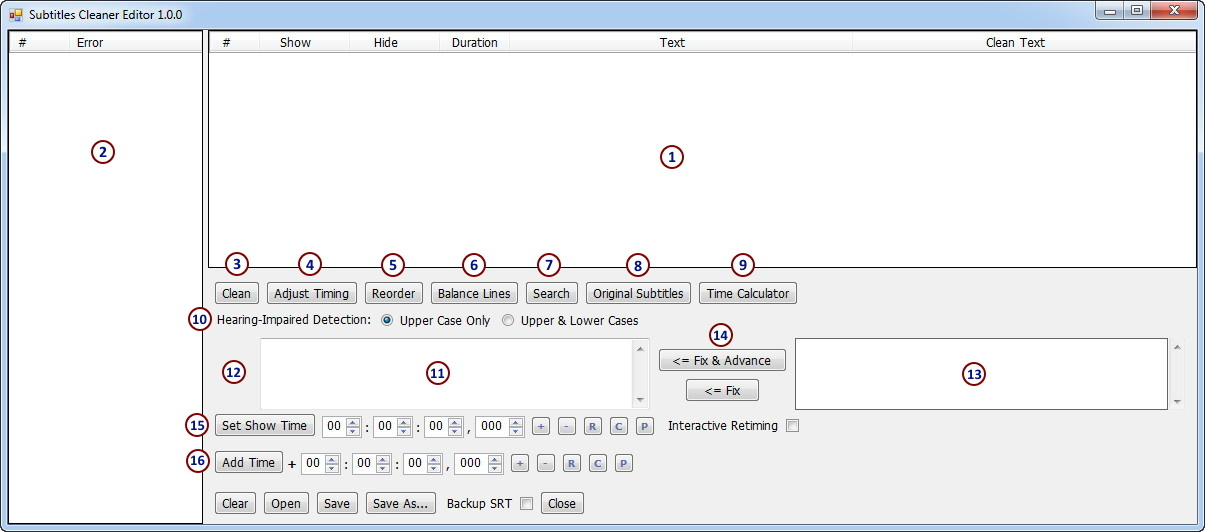
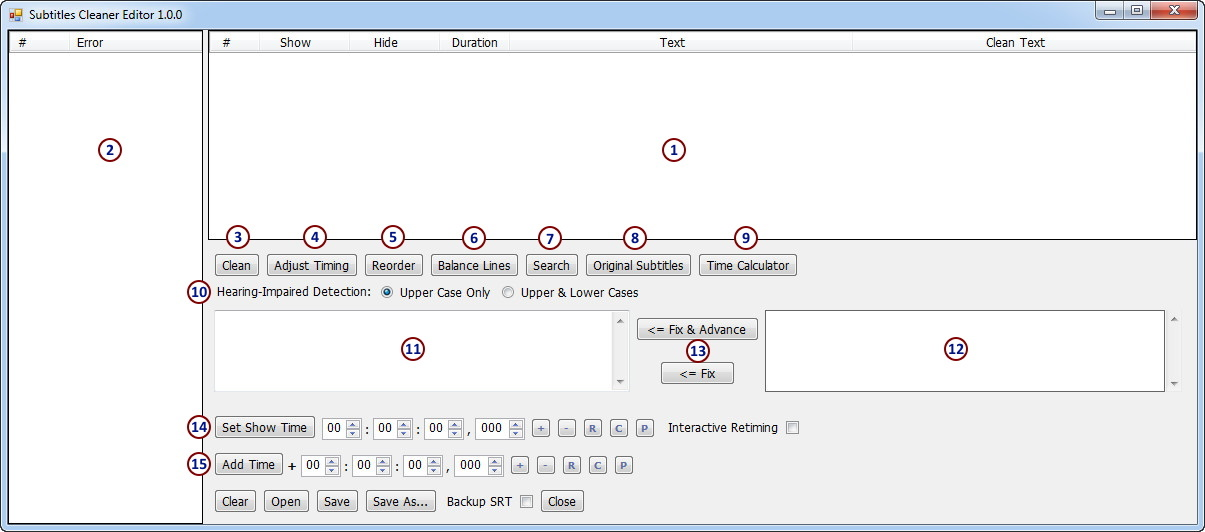
fixed README.md after editor redesign

diff --git a/README.md b/README.md
@@ -20,18 +20,17 @@ This program is not, and was not meant to be, a comprehensive subtitles editor.
 5. Reorder subtitles based on their show time. Also, does a little cleanup of empty lines and non-subtitle lines ("Sync by").
 6. Balance Lines. Merge short line with long line.
 7. Search and replace.
-8. Load the original subtitles and discard all changes.
+8. Load the original subtitles and discard all previous changes.
 9. Time Calculator. A little utility when you need to calculate time differences and it is too hard to do the math in your head.
 
 ![Time Calculator](./Solution%20Items/Images/TimeCalculator.jpg)
 
 10. Hearing-Impaired Detection. Identifies hearing-impaired with only capital letters text or all-case text.
-11. Current selected subtitle. Changes can be made in the textbox.
-12. Display length of the first 4 lines of the subtitle. Display length means only the text that is shown on the screen, so no `<i>`, `<b>`, `<u>` and no [ASSA Tags](https://www.nikse.dk/subtitleedit/formats/assa-override-tags).
-13. Cleaned subtitle.
-14. Fix buttons will copy the cleaned subtitle to the subtitle itself. The advance button will also jump to the next subtitle with an error.
-15. Set Show Time. Set the specified show time to the selected subtitle and change the timings of all the subtitles below it based on their time differences. When the Interactive Retiming is checked, the show timings will change in the subtitles panel as the show time is changed.
-16. Add Time starting from the selected subtitle. Time can be positive or negative. The time sign is clickable and changes between `+` and `-`.
+11. Selected subtitle. Changes can be made in the textbox.
+12. Cleaned subtitle.
+13. Fix buttons will copy the cleaned subtitle to the subtitle itself. The advance button will also jump to the next subtitle with an error.
+14. Set Show Time. Set the specified show time to the selected subtitle and change the timings of all the subtitles below it based on their time differences. When the Interactive Retiming is checked, the show timings will change in the subtitles panel as the show time is changed.
+15. Add Time starting from the selected subtitle. Time can be positive or negative. The time sign is clickable and changes between `+` and `-`.
 
 ## Subtitles Cleaner Command
 
